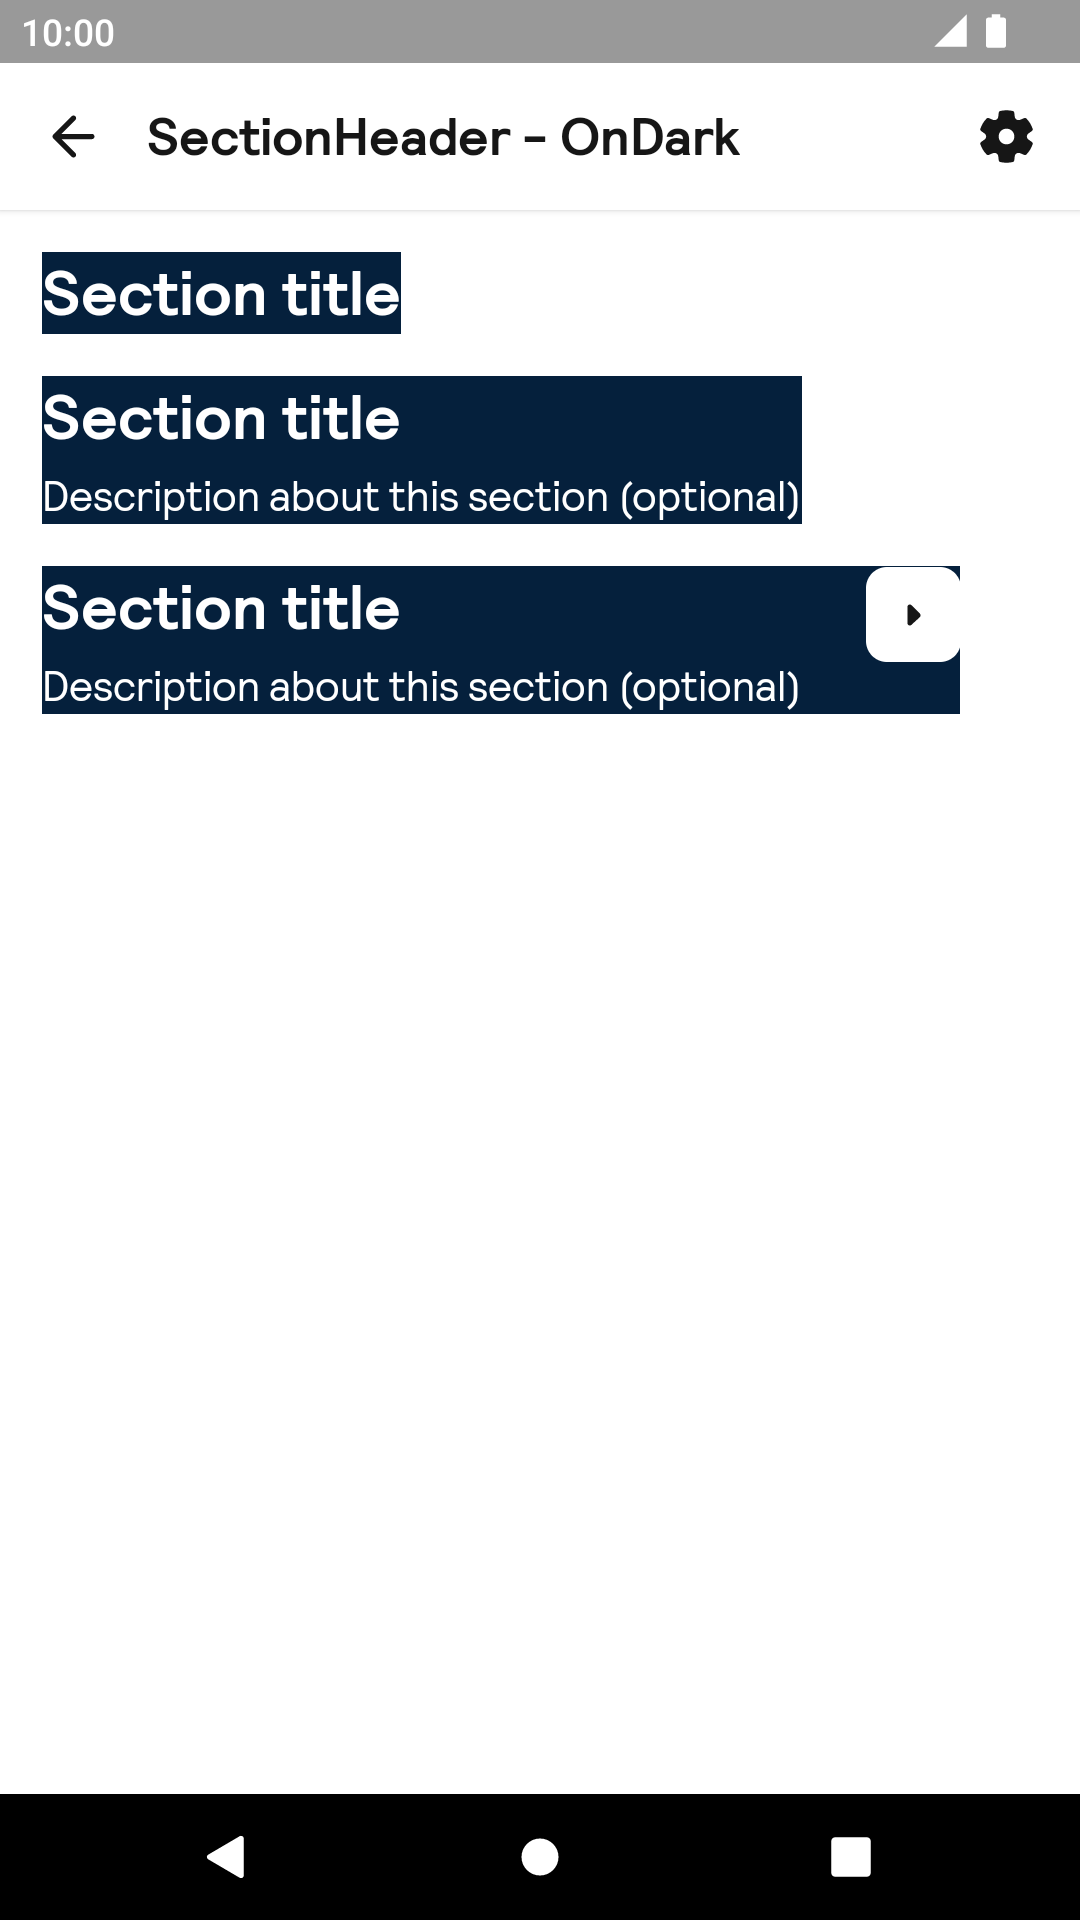
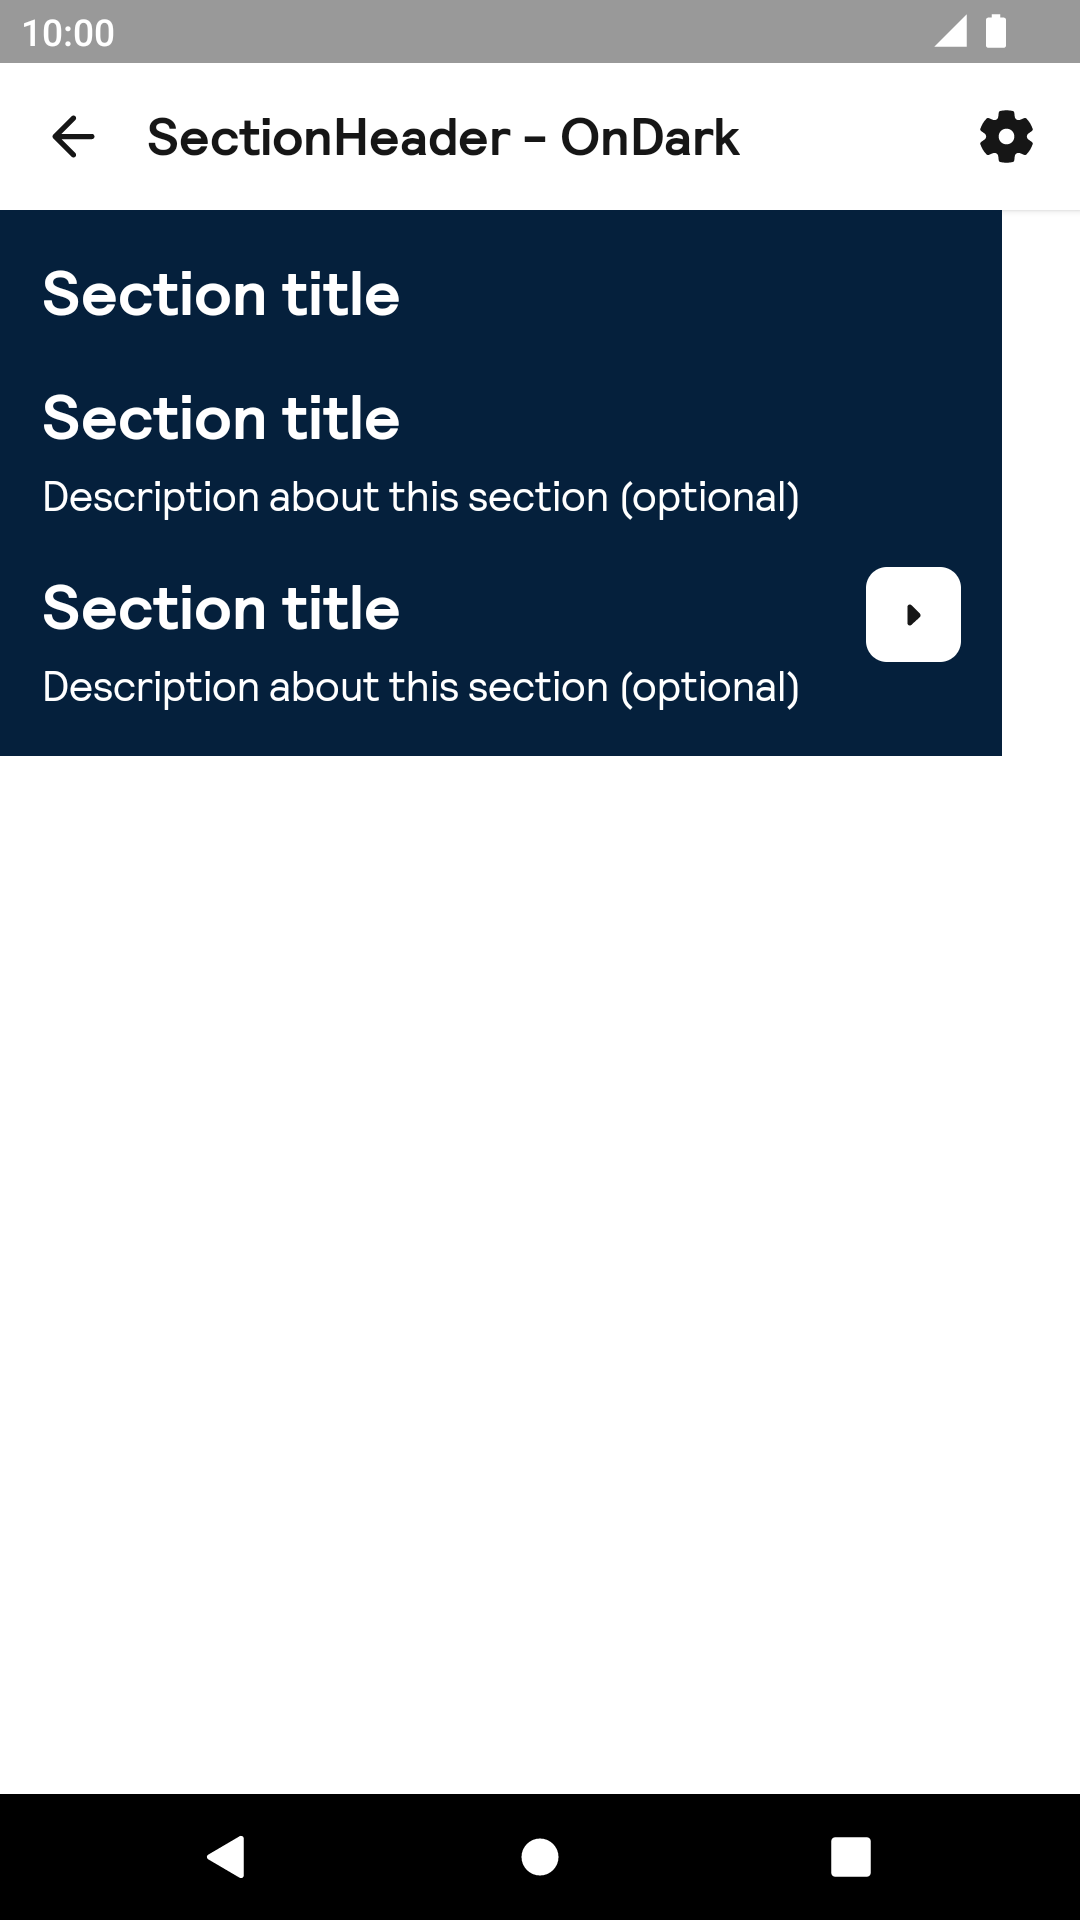
[NEUT-1547] - Address PR comments

Changed region(s): [[0.0, 0.0938, 0.9472, 0.4062]]

diff --git a/backpack-compose/src/main/kotlin/net/skyscanner/backpack/compose/sectionheader/internal/BpkSectionHeaderImpl.kt b/backpack-compose/src/main/kotlin/net/skyscanner/backpack/compose/sectionheader/internal/BpkSectionHeaderImpl.kt
@@ -26,7 +26,6 @@ import androidx.compose.runtime.Composable
 import androidx.compose.ui.Alignment
 import androidx.compose.ui.Modifier
 import androidx.compose.ui.graphics.Color
-import androidx.compose.ui.unit.dp
 import net.skyscanner.backpack.compose.button.BpkButton
 import net.skyscanner.backpack.compose.button.BpkButtonType
 import net.skyscanner.backpack.compose.icon.BpkIcon
@@ -56,7 +55,7 @@ fun BpkSectionHeaderImpl(
         verticalAlignment = Alignment.Top,
     ) {
         Column(
-            verticalArrangement = Arrangement.spacedBy(4.dp, Alignment.Top),
+            verticalArrangement = Arrangement.spacedBy(BpkSpacing.Sm, Alignment.Top),
             horizontalAlignment = Alignment.Start,
         ) {
             BpkText(
@@ -97,7 +96,20 @@ fun BpkSectionHeaderImpl(
     }
 }
 
-fun getHorizontalArrangement(tablet: Boolean): Arrangement.HorizontalOrVertical {
+@Composable
+private fun getBackgroundColor(type: BpkSectionHeaderType): Color =
+    when (type) {
+        Default -> BpkTheme.colors.canvas
+        OnDark -> BpkTheme.colors.surfaceContrast
+    }
+
+private fun getButtonType(type: BpkSectionHeaderType): BpkButtonType =
+    when (type) {
+        Default -> BpkButtonType.Primary
+        OnDark -> BpkButtonType.PrimaryOnDark
+    }
+
+private fun getHorizontalArrangement(tablet: Boolean): Arrangement.HorizontalOrVertical {
     val size = if (tablet) {
         BpkSpacing.Lg.times(2)
     } else {
@@ -107,21 +119,8 @@ fun getHorizontalArrangement(tablet: Boolean): Arrangement.HorizontalOrVertical 
 }
 
 @Composable
-fun getTextColor(type: BpkSectionHeaderType): Color =
+private fun getTextColor(type: BpkSectionHeaderType): Color =
     when (type) {
         Default -> BpkTheme.colors.textPrimary
         OnDark -> BpkTheme.colors.textOnDark
-    }
-
-fun getButtonType(type: BpkSectionHeaderType): BpkButtonType =
-    when (type) {
-        Default -> BpkButtonType.Primary
-        OnDark -> BpkButtonType.PrimaryOnDark
-    }
-
-@Composable
-fun getBackgroundColor(type: BpkSectionHeaderType): Color =
-    when (type) {
-        Default -> BpkTheme.colors.canvas
-        OnDark -> BpkTheme.colors.surfaceContrast
     }

diff --git a/backpack-compose/src/main/kotlin/net/skyscanner/backpack/compose/utils/DeviceUtil.kt b/backpack-compose/src/main/kotlin/net/skyscanner/backpack/compose/utils/DeviceUtil.kt
@@ -24,5 +24,7 @@ import androidx.compose.ui.platform.LocalConfiguration
 @Composable
 fun isTablet(): Boolean {
     val configuration = LocalConfiguration.current
-    return configuration.screenWidthDp > 513
+    return configuration.screenWidthDp > SMALL_TABLET_WIDTH
 }
+
+const val SMALL_TABLET_WIDTH = 513

diff --git a/docs/compose/SectionHeader/README.md b/docs/compose/SectionHeader/README.md
@@ -28,6 +28,8 @@ Backpack Compose is available through [Maven Central](https://search.maven.org/a
 If you don't specify a `style` parameter it will use the `.default` type
 
 ```Kotlin
+    import net.skyscanner.backpack.compose.sectionheader.BpkSectionHeader
+
     BpkSectionHeader(
         title = stringResource(R.string.section_header_title),
     )
@@ -36,6 +38,8 @@ If you don't specify a `style` parameter it will use the `.default` type
 ### Section header with a title and description.
 
 ```Kotlin
+    import net.skyscanner.backpack.compose.sectionheader.BpkSectionHeader
+
     BpkSectionHeader(
         title = stringResource(R.string.section_header_title),
         description = stringResource(R.string.section_header_description),
@@ -45,6 +49,8 @@ If you don't specify a `style` parameter it will use the `.default` type
 ### Section header with a title, description and trailing button.
 
 ```Kotlin
+    import net.skyscanner.backpack.compose.sectionheader.BpkSectionHeader
+
     BpkSectionHeader(
         title = stringResource(R.string.section_header_title),
         description = stringResource(R.string.section_header_description),
@@ -58,6 +64,8 @@ If you don't specify a `style` parameter it will use the `.default` type
 ### Section header with a title, description, trailing button and onDark style.
 
 ```Kotlin
+    import net.skyscanner.backpack.compose.sectionheader.BpkSectionHeader
+
     BpkSectionHeader(
         title = stringResource(R.string.section_header_title),
         description = stringResource(R.string.section_header_description),
